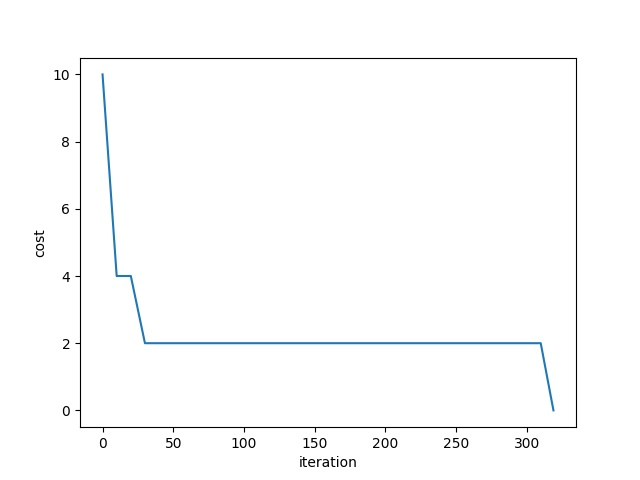
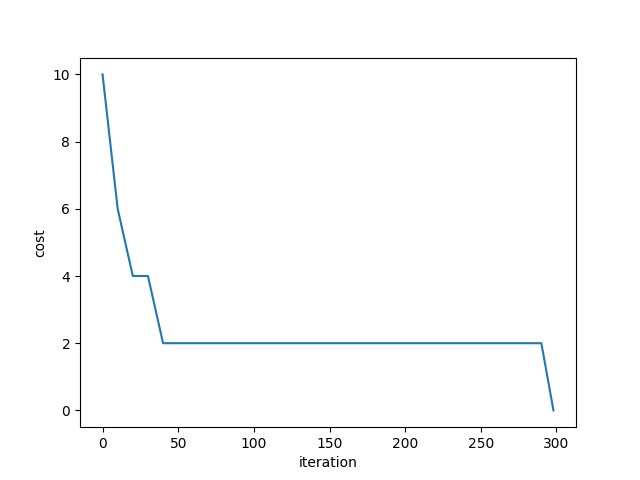
nqueens finished

diff --git a/random/n-queens/n-queens.py b/random/n-queens/n-queens.py
@@ -101,7 +101,7 @@ class NQueensSolver:
 
             move = queens.move()
             new_cost = queens.cost()
-            if not (new_cost < cost or np.exp(-(new_cost - cost)/T) > random.random()):
+            if new_cost > cost or np.exp((new_cost - cost)/T) < random.random():
                 queens.revert_move(move)
 
         return queens, steps, costs
@@ -134,6 +134,7 @@ class NQueensSolver:
 if __name__ == '__main__':
     solver = NQueensSolver()
     for qty in [10, 15, 20, 25]:
+        print(qty)
         start_time = time.time()
         queens, steps, costs = solver.HillClimbing(qty)
         with open('random/n-queens/results/HillClimbing/{0}-log.txt'.format(qty), 'w') as f:
@@ -143,6 +144,7 @@ if __name__ == '__main__':
         plt.ylabel('cost')
         plt.xlabel('iteration')
         plt.savefig('random/n-queens/results/HillClimbing/{0}-log.jpg'.format(qty))
+        print('HillClimbing')
 
         start_time = time.time()
         queens, steps, costs = solver.SimulatedAnnealing(qty, 20000)
@@ -153,3 +155,4 @@ if __name__ == '__main__':
         plt.ylabel('cost')
         plt.xlabel('iteration')
         plt.savefig('random/n-queens/results/SimulatedAnnealing/{0}-log.jpg'.format(qty))
+        print('SimulatedAnnealing')
